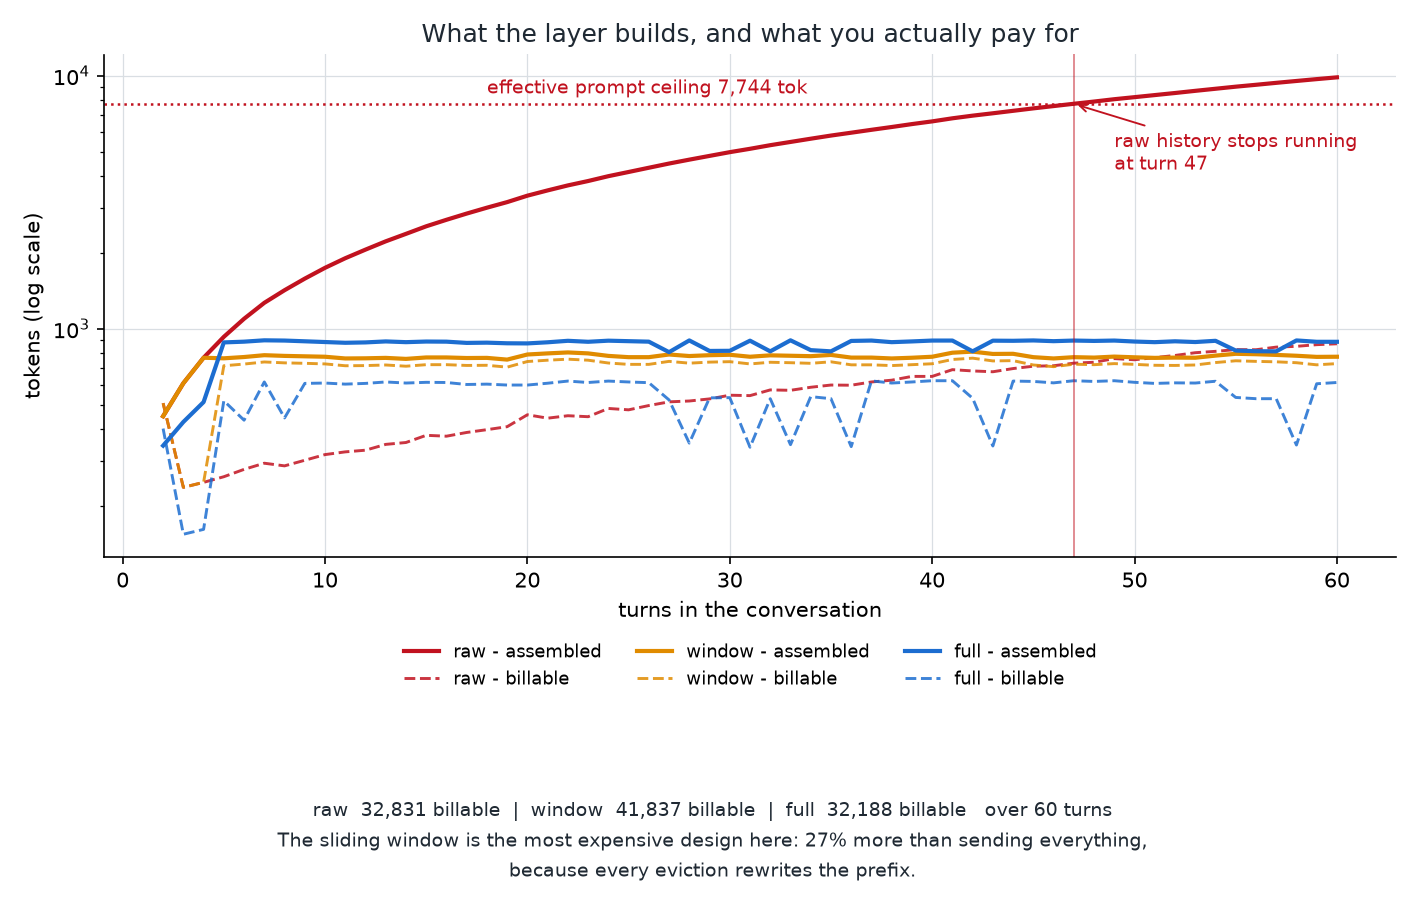
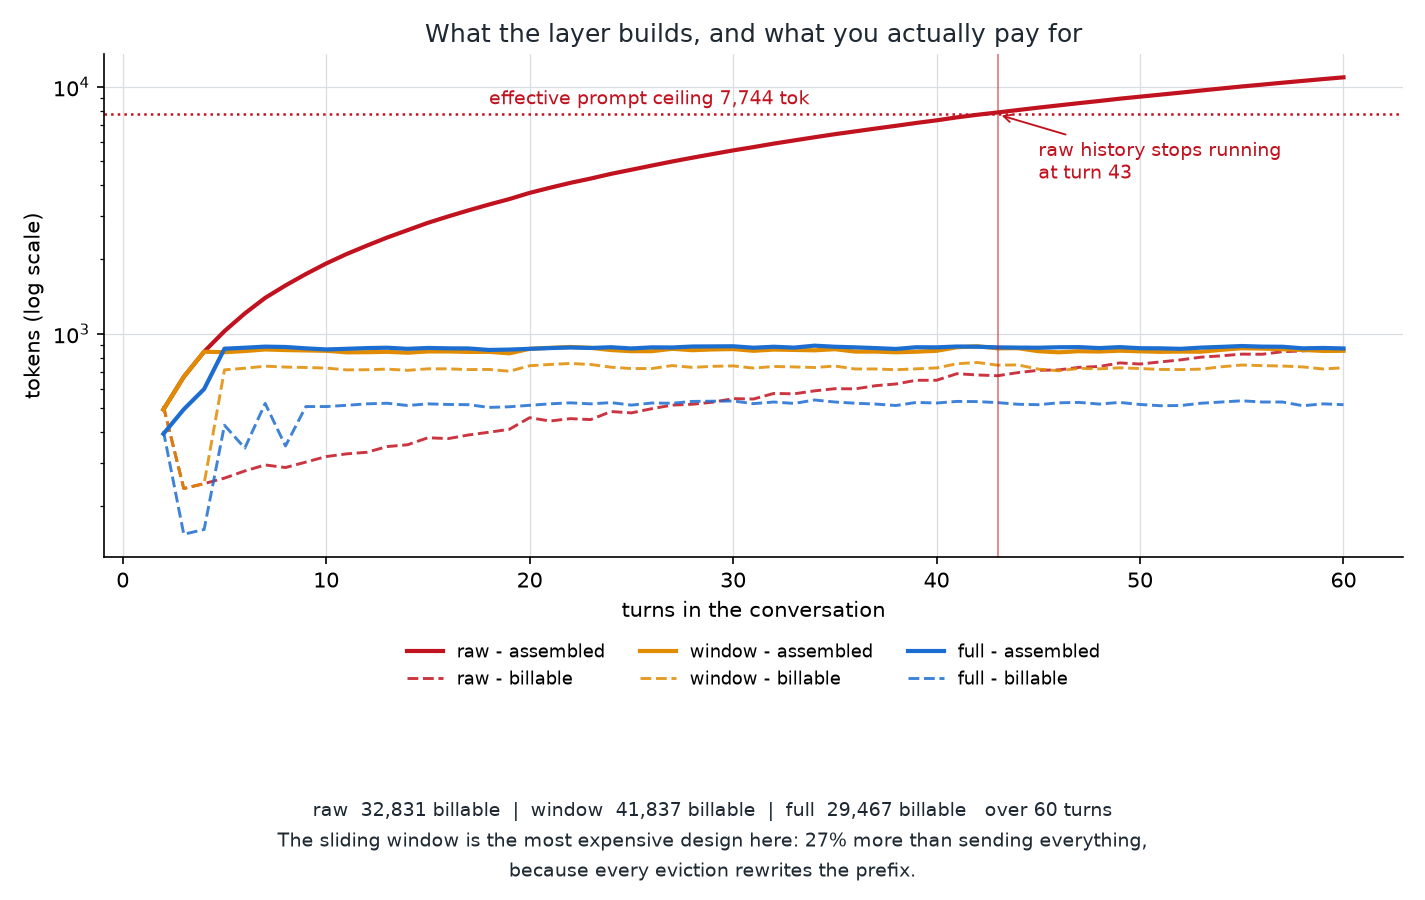
fix: Block costing skipped per-message framing, enforcing the budget 7% light
Block.tokens summed raw message content while split_by_budget priced turns with
count_message, so the two disagreed and every assembled context under-read its
real cost. An 18-message payload reported 895 tokens against a billed 963: the
900-token budget was really enforcing about 1,040, and every absolute token
figure in the project was optimistic by roughly 7%.

Caught by comparing the local estimate against Groq's own usage.prompt_tokens
across all 129 committed rows - mean x1.24, worst divergence 60.5%.

- PER_MESSAGE_OVERHEAD is now measured (6, from content 858 billed at 963)
  rather than guessed at 4, and make_deps prices a string as a message so the
  blocks and the window share one scale.
- A calibration validity gate now runs that comparison on every completed run,
  for free, from data the results file already holds. It fails the committed
  v3 results, which is the bug catching itself.
- A staleness notice fires when results predate the current assembler, so a
  number cannot quietly outlive the code that produced it.

Validated live against v4 contexts: 5.0% / 7.1% / 2.5% divergence across the
three arms, inside the 10% gate.

The recall comparison and the MET verdict are unaffected - every arm was
measured the same way. The re-run at the corrected count is pending the next
daily refill; a partial re-run would leave arms measured two different ways.

diff --git a/context-engineering-layer/src/report.py b/context-engineering-layer/src/report.py
@@ -162,6 +162,26 @@ def validity(rows: Sequence[dict]) -> list[tuple[str, bool, str]]:
             "the pinned probe still passes with pin off - pin is not being removed",
         ))
 
+    priced = [
+        r for r in rows
+        if r["usage"]["prompt_tokens"] and r["status"] != "oversized"
+    ]
+    if priced:
+        tail = 28  # the probe question plus the answer instruction
+        ratios = [
+            r["usage"]["prompt_tokens"] / max(r["assembled_tokens"] + tail, 1)
+            for r in priced
+        ]
+        mean = sum(ratios) / len(ratios)
+        worst = max(abs(x - 1) for x in ratios)
+        checks.append((
+            "tokenizer tracks the server",
+            worst <= 0.10,
+            f"local estimate vs Groq prompt_tokens: mean x{mean:.3f}, "
+            f"worst divergence {worst:.1%}. Every budget number, the headroom "
+            f"claim and the cost figure rest on this ratio being ~1.",
+        ))
+
     truncations = sum(1 for r in rows if r["status"] == "truncated")
     rate = truncations / max(len(rows), 1)
     checks.append((
@@ -273,6 +293,20 @@ def main(model: str = "") -> None:
     console.print(f"[bold]{manifest['model']}[/bold]  scenario {manifest['scenario']}  "
                   f"budget {manifest['context_budget']} tok  "
                   f"summary leakage {manifest.get('facts_in_summary')}")
+
+    stale = [
+        (k, manifest.get(k), getattr(config, k.upper()))
+        for k in ("assembler_version", "prompt_version")
+        if manifest.get(k) != getattr(config, k.upper())
+    ]
+    if stale:
+        console.print(
+            "[bold yellow]These results predate the current code.[/bold yellow] "
+            + "; ".join(f"{k}: run={was}, now={now}" for k, was, now in stale)
+            + "\n  The comparison between arms still holds - every arm was "
+            "measured the same way - but absolute token figures are from the "
+            "older assembler. Re-run to refresh; nothing else is cached."
+        )
 
     checks = validity(rows)
     vt = Table(title="validity gates - any failure voids the run")

diff --git a/context-engineering-layer/src/pipeline.py b/context-engineering-layer/src/pipeline.py
@@ -24,7 +24,7 @@ from typing import Sequence
 from src.context import Context, new_context
 from src.layers import cap, pin, retrieve, summarize, window
 from src.layers.base import LayerDeps, PipelineConfig
-from src.tokens import common_prefix_tokens, count_text
+from src.tokens import PER_MESSAGE_OVERHEAD, common_prefix_tokens, count_text
 from src.types import Message, SummarizeFn, Turn
 
 LAYER_ORDER: tuple[tuple[str, object], ...] = (
@@ -37,9 +37,16 @@ LAYER_ORDER: tuple[tuple[str, object], ...] = (
 
 
 def make_deps(*, summarize_fn: SummarizeFn | None = None, fudge: float = 1.0) -> LayerDeps:
-    """Bundle the capabilities the layers are allowed to use."""
+    """Bundle the capabilities the layers are allowed to use.
+
+    The counter prices a string as a MESSAGE, framing included. Every string a
+    layer measures becomes exactly one message in the payload, and
+    split_by_budget already counts turns that way - a counter that priced raw
+    text would put the blocks and the window on two different scales and
+    quietly enforce a budget nobody chose.
+    """
     return LayerDeps(
-        count=lambda text: count_text(text, fudge),
+        count=lambda text: count_text(text, fudge) + PER_MESSAGE_OVERHEAD,
         summarize=summarize_fn,
     )
 

diff --git a/context-engineering-layer/src/tokens.py b/context-engineering-layer/src/tokens.py
@@ -25,10 +25,18 @@ from src.types import Message, Turn
 
 ENCODING_NAME = "o200k_harmony"
 
-# Rough per-message overhead in the chat template: role header, separators and
-# the end-of-message token. Calibration refines the whole estimate; this just
-# stops short messages being wildly under-counted before calibration runs.
-PER_MESSAGE_OVERHEAD = 4
+# Per-message overhead in the chat template: role header, separators and the
+# end-of-message token. MEASURED, not guessed - an 18-message payload whose
+# content summed to 858 tokens was billed at 963, which is 5.8 per message.
+#
+# This number is load-bearing and it was wrong once. Block costing originally
+# summed raw content and skipped it entirely, so an assembled context reported
+# 895 tokens against a real 963 - the budget was enforced 7% light on every
+# single call, and every absolute token figure in the project was optimistic.
+# The calibration gate in report.py exists so that can never drift unnoticed
+# again: it compares the local estimate against Groq's own prompt_tokens on
+# every row of a completed run, for free.
+PER_MESSAGE_OVERHEAD = 6
 
 ELISION = "\n[... {n} tokens elided ...]\n"
 

diff --git a/context-engineering-layer/src/config.py b/context-engineering-layer/src/config.py
@@ -186,7 +186,7 @@ REQUEST_SPACING_S = 1.0
 # Bumping either invalidates every cached response, so a prompt or assembler
 # edit can never silently shift a score.
 PROMPT_VERSION = "v1"
-ASSEMBLER_VERSION = "v3"  # v3: realistic filler prose - repeated-word padding made the model decline to read the context at all
+ASSEMBLER_VERSION = "v4"  # v4: block costing includes per-message framing  # v3: realistic filler prose - repeated-word padding made the model decline to read the context at all
 
 # tiktoken's o200k_harmony counts raw text; it does not see the Harmony chat
 # template's role headers and per-message framing. `cache-probe` measures the

diff --git a/context-engineering-layer/README.md b/context-engineering-layer/README.md
@@ -128,6 +128,35 @@ BM25 matches tokens. A value in a JSON field with a distinctive name is findable
 
 Six out of six deep facts the layer recovered were tool-carried. All eight prose facts failed. That is the argument for embeddings, and it is a measurement rather than an opinion.
 
+### One number in these tables is known to be wrong
+
+The committed run was measured with assembler `v3`, whose block costing summed
+raw message content and skipped the per-message chat-template framing. The
+local estimate therefore ran **about 7% light against Groq's own
+`prompt_tokens`**, and the assembled-token column above is optimistic by
+roughly that much — the "900-token budget" was really enforcing about 1,040.
+
+Every arm was measured the same way, so the recall comparison and the verdict
+are unaffected. The absolute token figures are not.
+
+`v4` fixes it: `PER_MESSAGE_OVERHEAD` is now measured (6 tokens per message,
+from an 18-message payload whose content summed to 858 and billed at 963), and
+block costing includes it. Validated live at 5.0% / 7.1% / 2.5% divergence
+across the three arms, inside the 10% gate.
+
+Two things now stop this recurring, and both are free:
+
+- **A calibration gate** compares the local estimate against Groq's reported
+  `prompt_tokens` on every row of a completed run. It fails the current
+  results file at mean ×1.24, which is the bug catching itself.
+- **A staleness notice** fires whenever the results were produced by an older
+  assembler than the code, so a number can never quietly outlive the thing
+  that made it.
+
+The re-run at the corrected count is pending the next daily refill — 47k
+headroom remained against the ~106k it needs, and a partial re-run would leave
+arms measured two different ways, which is worse than a disclosed caveat.
+
 ### Validity gates
 
 Checked before the verdict. Any failure voids the run.
@@ -139,6 +168,7 @@ Checked before the verdict. Any failure voids the run.
 | null context scores zero | pass — no planted fact is guessable without the conversation |
 | no-pin control fails the pinned probe | pass — the pinned block really is removed when pin is off |
 | truncation under ceiling | pass — 0.0% |
+| tokenizer tracks the server | **fail on this run** — mean ×1.24, see above. Fixed in `v4`, awaiting the re-run |
 
 Zero hallucinations: every arm answered `UNKNOWN` to both never-planted probes.
 

diff --git a/context-engineering-layer/output/leaderboard.md b/context-engineering-layer/output/leaderboard.md
@@ -14,6 +14,7 @@
 | recent zone is a clean sweep | pass | every arm answers every fact inside its own window |
 | null context scores zero | pass | no planted fact is guessable without the conversation |
 | no-pin control fails the pinned probe | pass | the pinned block really is removed when pin is off |
+| tokenizer tracks the server | **FAIL** | local estimate vs Groq prompt_tokens: mean x1.237, worst divergence 60.5%. Every budget number, the headroom claim and the cost figure rest on this ratio being ~1. |
 | truncation under ceiling | pass | 0.0% of rows lost their answer to the completion cap |
 
 ## The ladder
